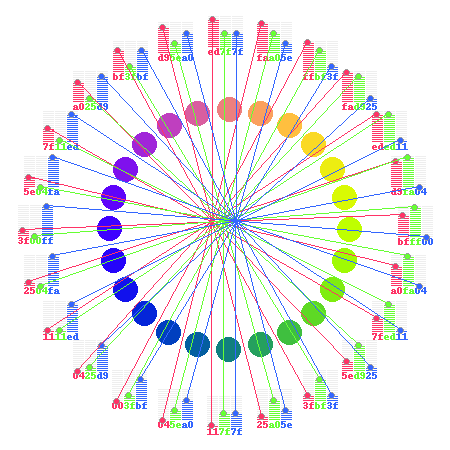
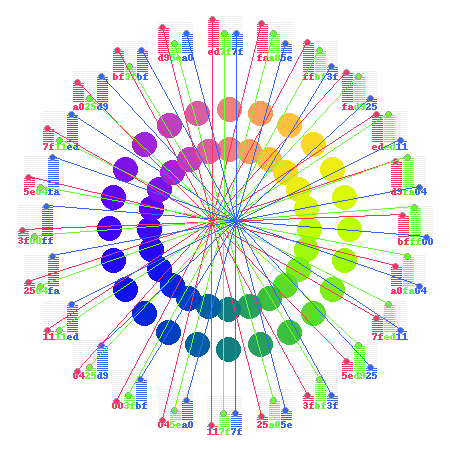
練習で二重円追加

Changed region(s): [[0.28, 0.28, 0.7156, 0.7156]]

diff --git a/step12.py b/step12.py
@@ -138,16 +138,8 @@ def draw_tone_circle(draw, theta_list, color_list):
     draw_gauge_ring(draw, gauge_center_coords, color_list)
 
     # 環状 色セル 描画
-    color_cell_center_coords = center_coords_on_ring(225, 225, 120, theta_list)
-    size = len(color_cell_center_coords)
-    for i in range(0, size):
-        x, y = color_cell_center_coords[i]
-
-        circle_w = 16
-
-        fill_color = color_list[i]
-        draw.ellipse((x-circle_w/2, y-circle_w/2, x +
-                      circle_w, y+circle_w), fill=fill_color)
+    draw_cell_circle(draw, 225, 225, 120, theta_list, color_list)
+    draw_cell_circle(draw, 225, 225, 80, theta_list, color_list)
 
     # ３本ゲージ各天辺座標計算
     three_gauges_top_coords = []
@@ -214,6 +206,37 @@ def draw_tone_circle(draw, theta_list, color_list):
     draw_beams(draw, three_gauges_top_coords, 2, blue)
 
 
+def draw_cell_circle(draw, left, top, range_n, theta_list, color_list):
+    """
+    Parameters
+    ----------
+    draw :
+
+    left : int
+        中心x
+    top : int
+        中心y
+    range : int
+        半径の長さ
+    theta_list : int[]
+        テータのリスト
+    color_list :
+    """
+
+    color_cell_center_coords = center_coords_on_ring(
+        left, top, range_n, theta_list)
+    size = len(color_cell_center_coords)
+    for i in range(0, size):
+        x, y = color_cell_center_coords[i]
+
+        circle_w = 16
+
+        fill_color = color_list[i]
+        draw.ellipse((x-circle_w/2, y-circle_w/2, x +
+                      circle_w, y+circle_w), fill=fill_color)
+    pass
+
+
 def draw_beams(draw, three_gauges_top_coords, rgb_index, color):
     half_size = int(len(three_gauges_top_coords)/2)
     for i in range(0, half_size):
@@ -229,6 +252,18 @@ def draw_beams(draw, three_gauges_top_coords, rgb_index, color):
 
 
 def center_coords_on_ring(left, top, range, theta_list):
+    """
+    Parameters
+    ----------
+    left : int
+        中心x
+    top : int
+        中心y
+    range : int
+        半径の長さ
+    theta_list int[]
+        テータのリスト
+    """
     coolds = []
     for theta in theta_list:
         x = range*math.cos(math.radians(theta))+left
